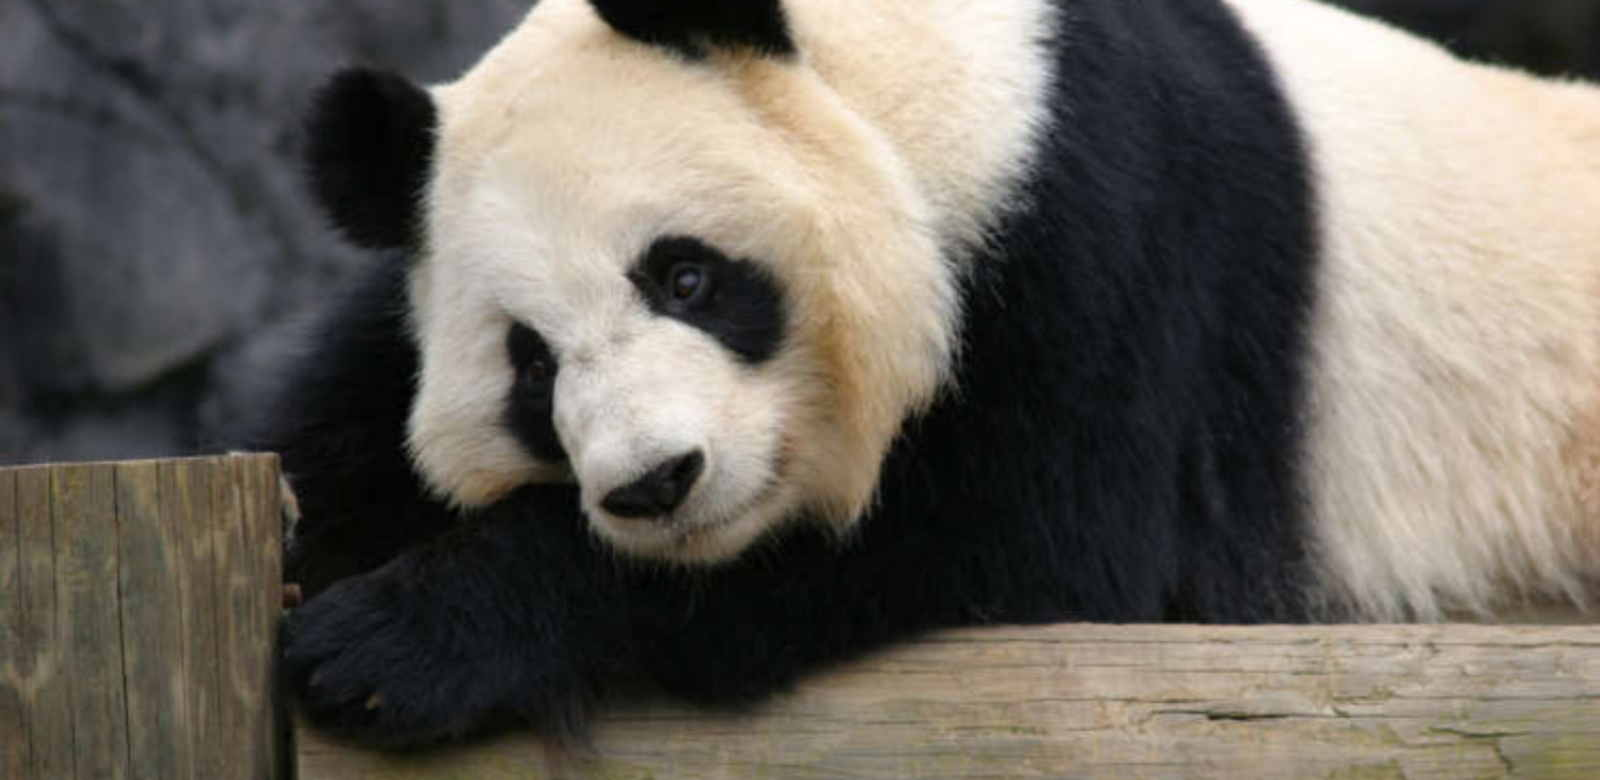
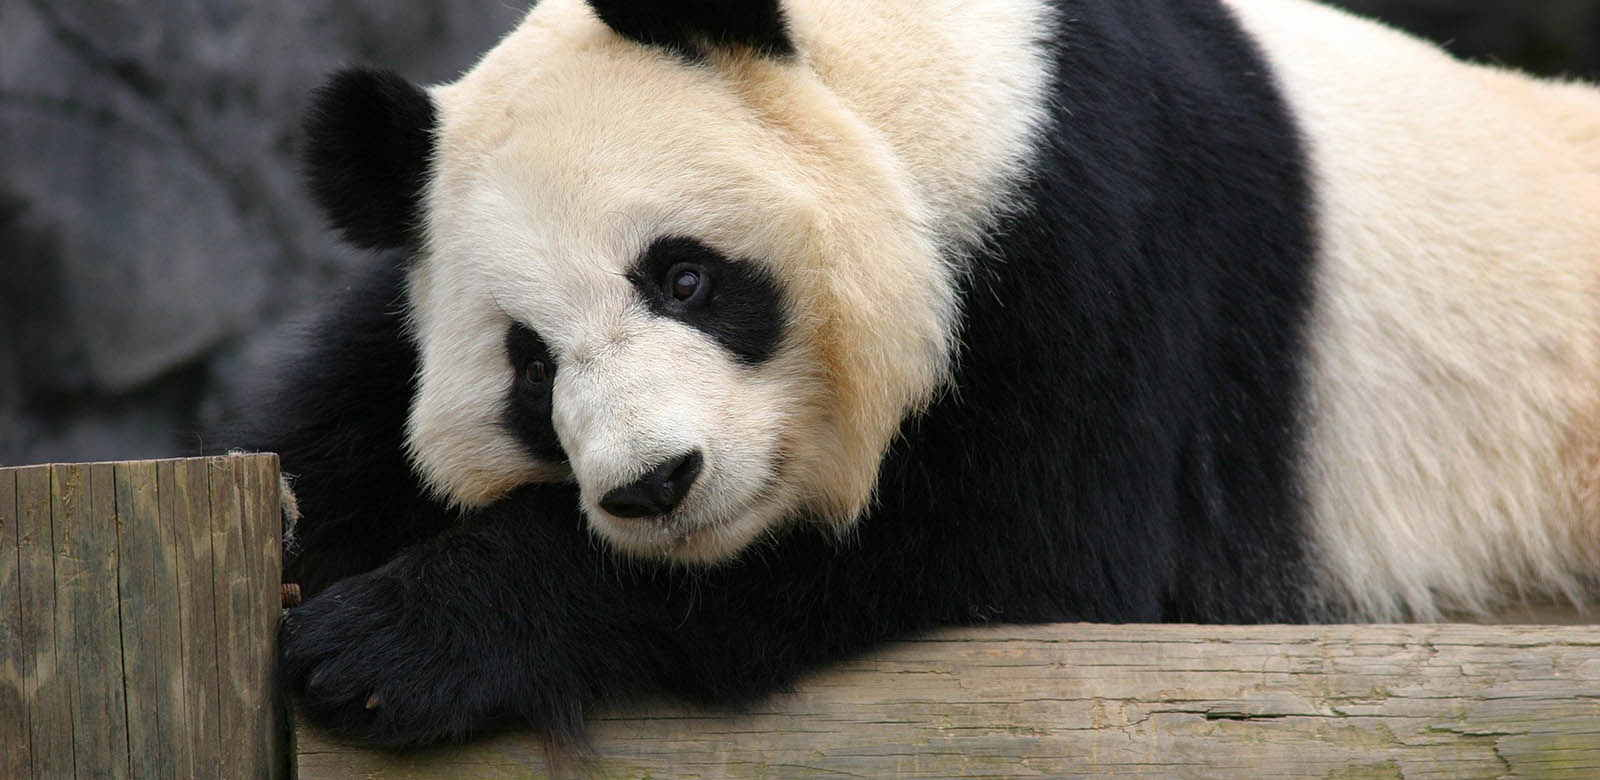
refactor: change quality image

diff --git a/online-zoo/src/pages/main/style.css b/online-zoo/src/pages/main/style.css
@@ -168,7 +168,7 @@ header {
 
 .backstage {
   padding-top: 140px;
-  background-image: url('../../assets/images/flower_foto1.png');
+  background-image: url('../../assets/images/flower_foto1.jpg');
   background-repeat: no-repeat;
   background-position: right 10%;
   z-index: -1;
@@ -216,7 +216,7 @@ header {
 /* Pets */
 
 .pets {
-  background-image: url('../../assets/images/palm_foto.png'), url('../../assets/images/strelitzia1.png');
+  background-image: url('../../assets/images/palm_foto.jpg'), url('../../assets/images/strelitzia1.jpg');
   background-repeat: no-repeat, no-repeat;
   background-position: left bottom, right bottom;
   z-index: -1;
@@ -373,6 +373,7 @@ header {
 
 .pets__arrow:hover {
   transform: scale(1.10);
+  background-color: #E47209;
   transition: all 0.4s ease;
 }
 
@@ -550,7 +551,7 @@ header {
 
 .testimonial {
   padding-top: 140px;
-  background-image: url('../../assets/images/leav_foto.png');
+  background-image: url('../../assets/images/leav_foto.jpg');
   background-repeat: no-repeat;
   background-position: right 126%;
   z-index: -1;
